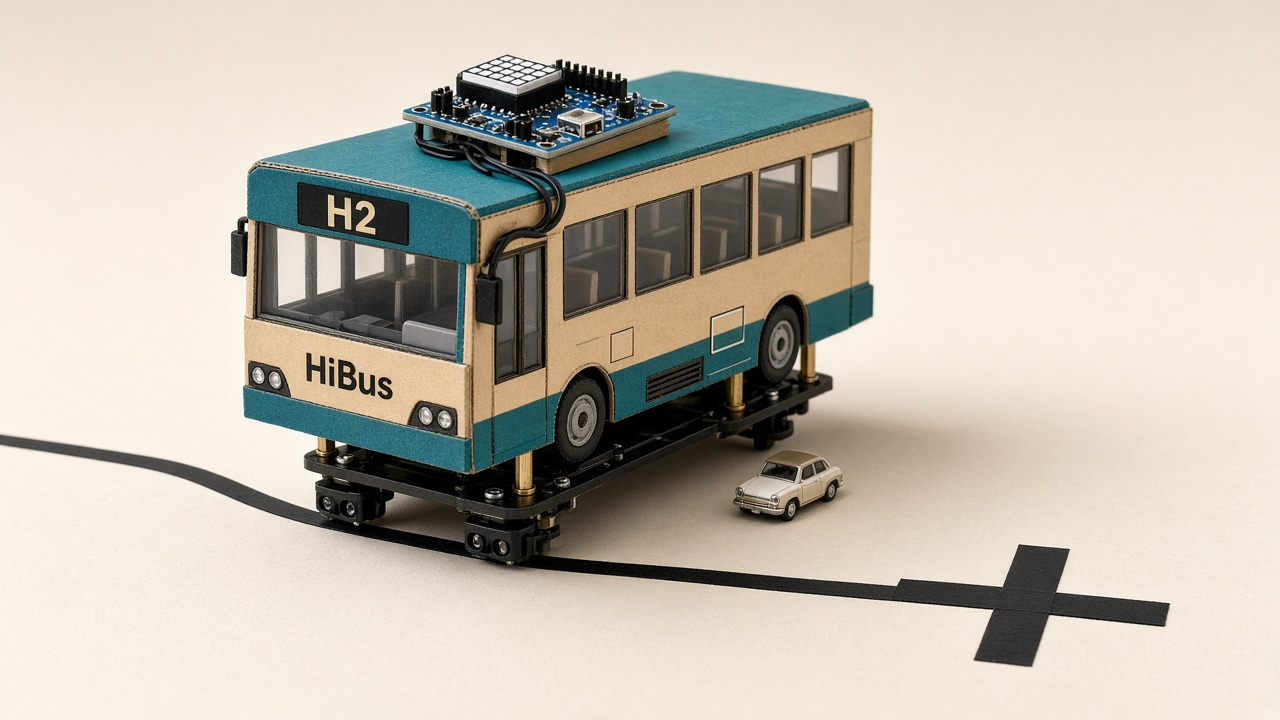
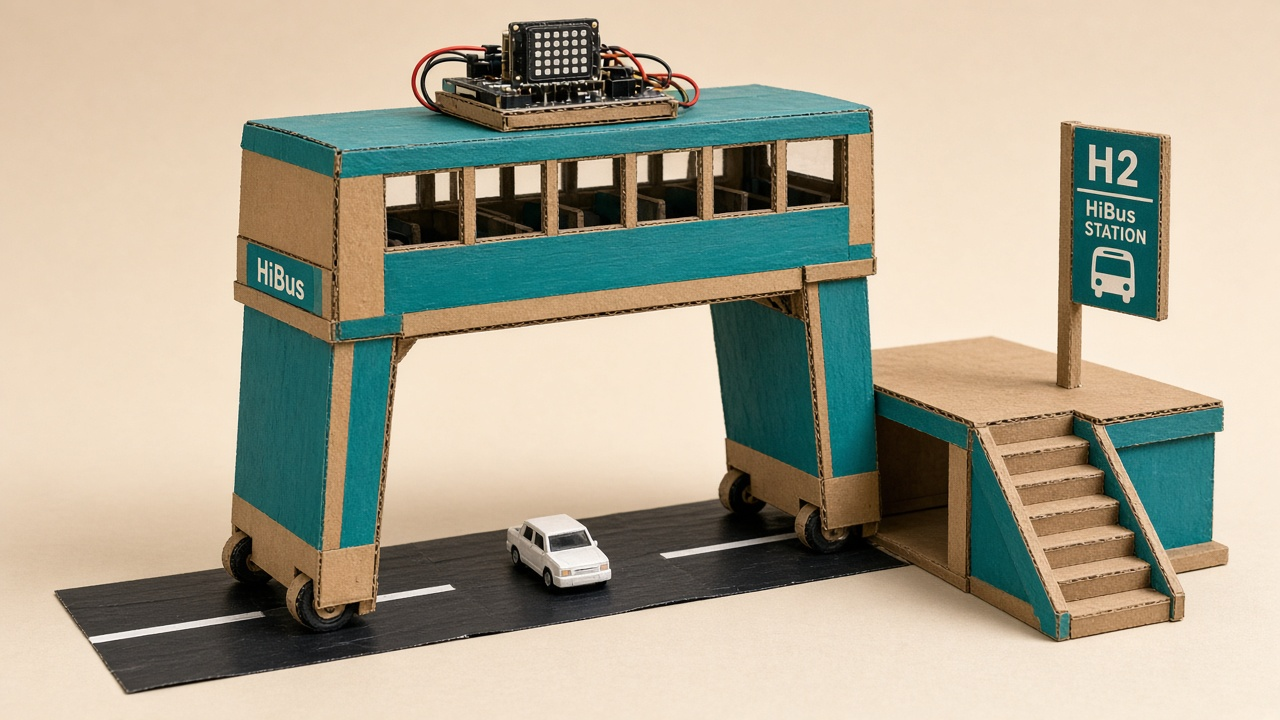
ปรับภาพรถไฮบัสให้ช่องลอดไม่มีคานขวางและมีชานชาลายกสูง

diff --git a/images/ATTRIBUTION.md b/images/ATTRIBUTION.md
@@ -6,7 +6,8 @@
 - ใช้ประกอบเอกสารโครงงาน STEM ในหน้า HiBus Demo พร้อมลิงก์กลับไปหน้าสินค้า
 
 ## ภาพแนวคิดที่สร้างสำหรับโครงงาน
-- `vehicle/hibus-prototype-hero.jpg` ภาพรถต้นแบบไฮบัส
+- `vehicle/hibus-prototype-hero.jpg` ภาพรถต้นแบบไฮบัส (v4: คร่อมถนน ไม่มีคานขวาง มีรถเล็กใต้ท้อง และชานชาลายกสูง)
+- `vehicle/hibus-prototype-hero-v4.jpg` สำเนาเวอร์ชันล่าสุด
 - `vehicle/hibus-exploded-layers.jpg` ภาพแยกชั้นโครงสร้าง
 - `vehicle/hibus-track-stop.jpg` แผนภาพสนามและป้ายเทปคาด
 - `vehicle/hibus-materials-body.jpg` วัสดุทำตัวถังยกสูง
